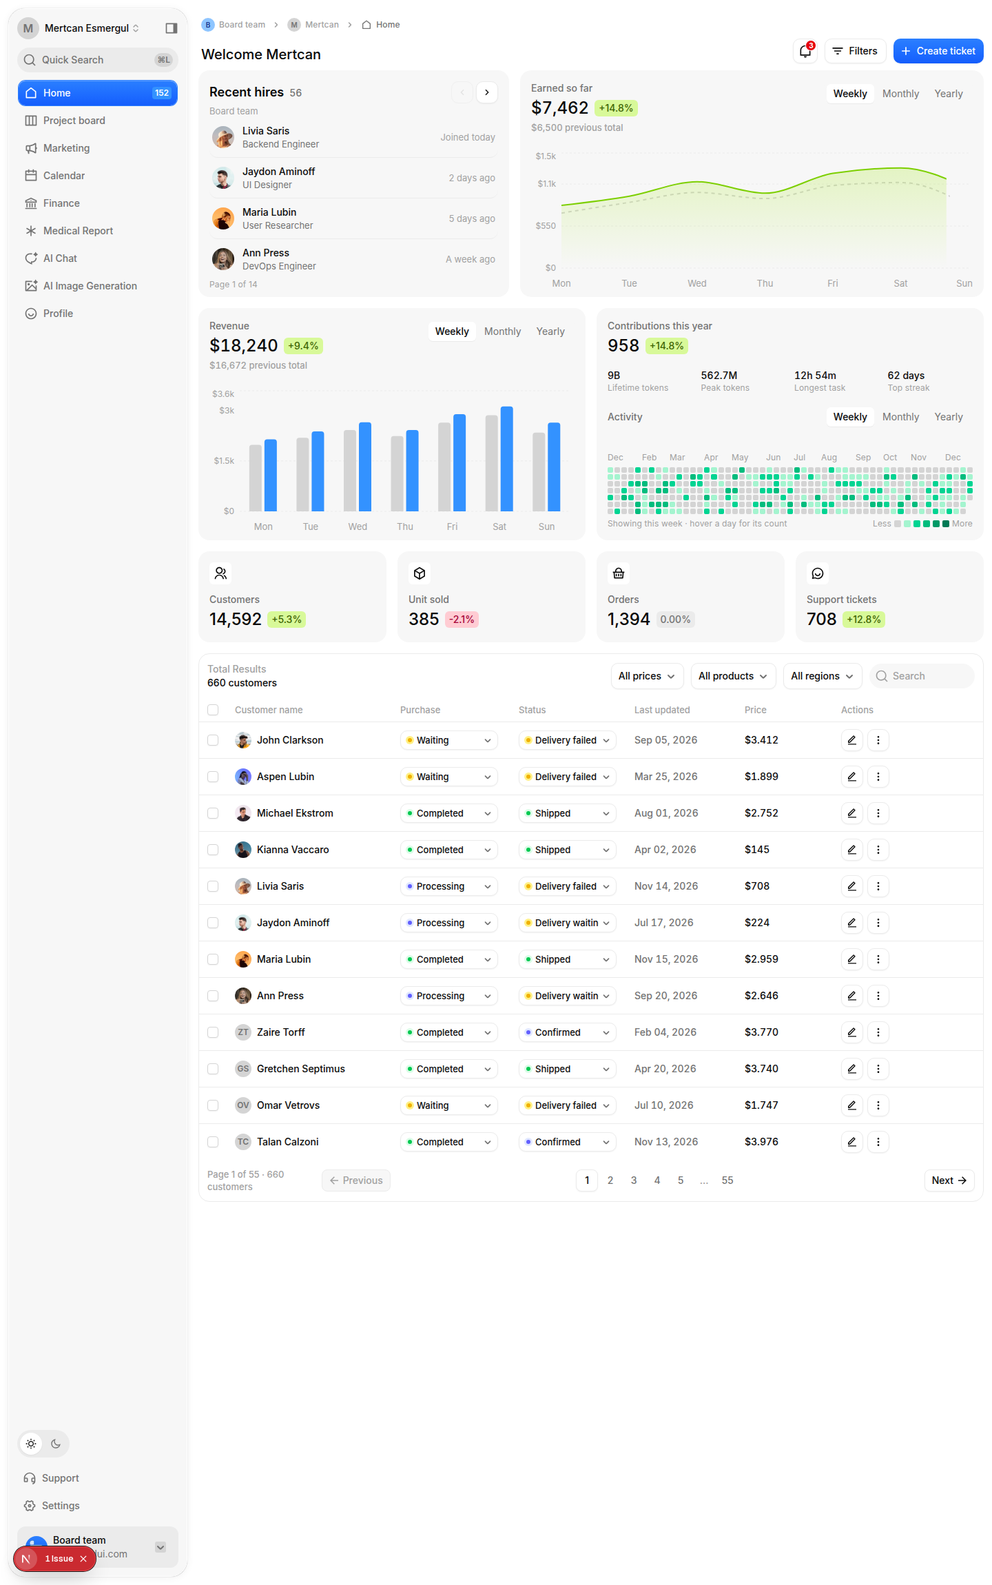
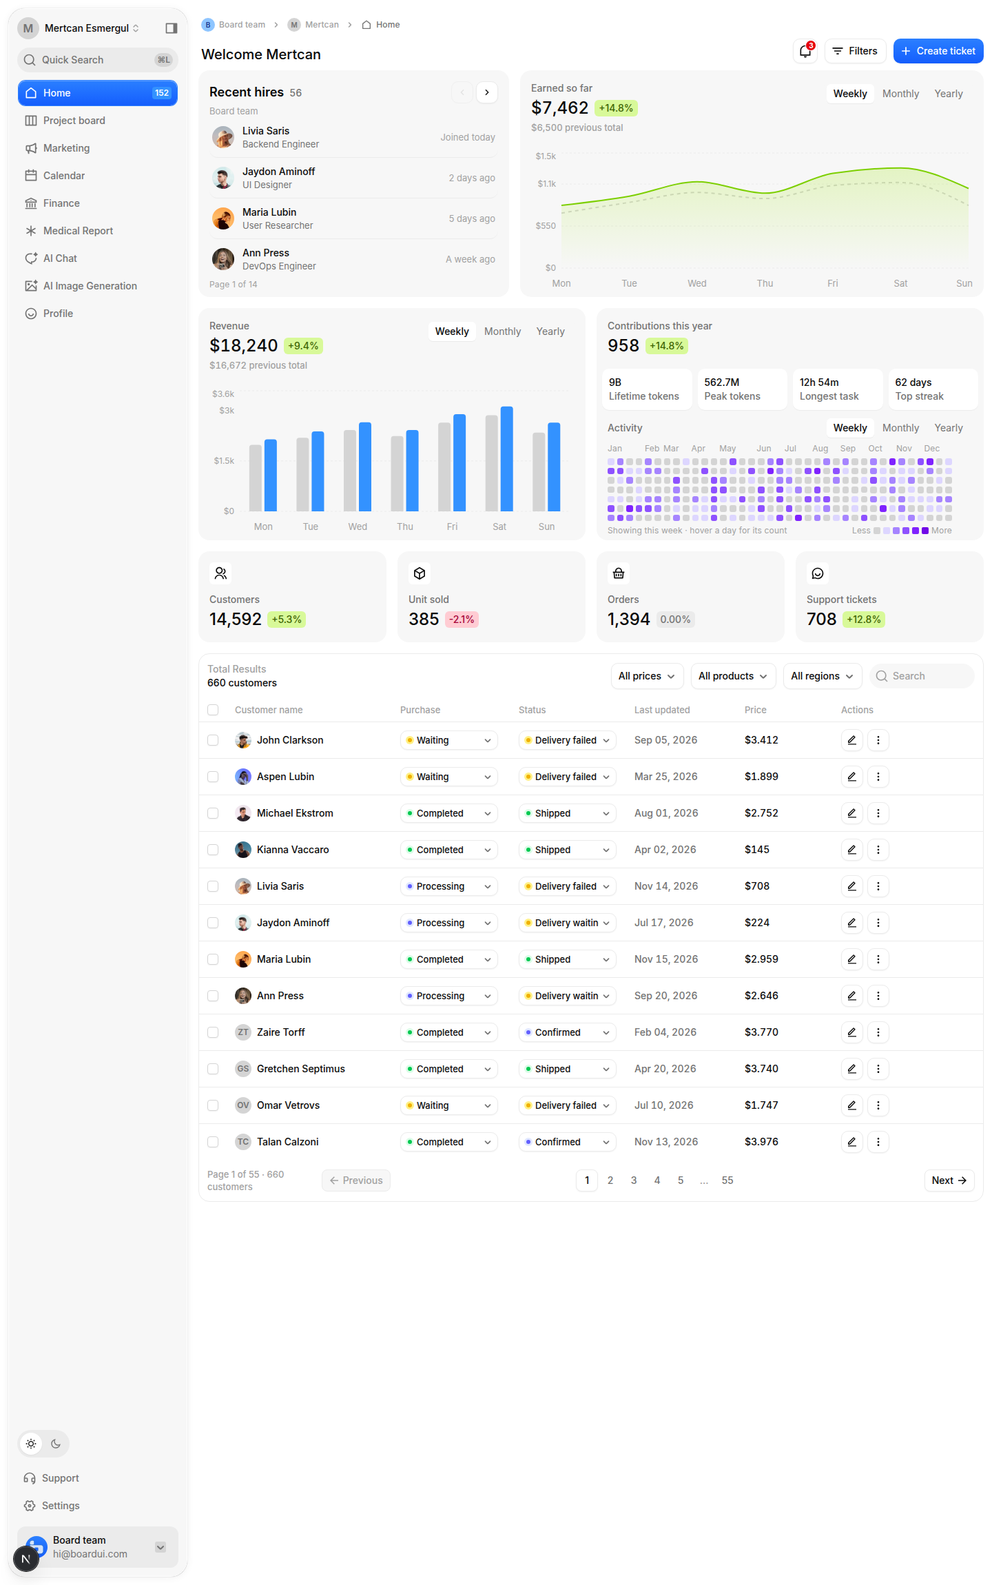
BoardUI Pro 全部内容 1:1 功能级复刻完成
- 11 条模板路由全部 1:1 重做（Dashboard、Project Board、Marketing、Calendar、Finance、Medical Profile、HR Management 新建、AI Chat、AI Image Generation、AI Profile、Multi-Agent Chat），直接替换近似版
- 30 个 Pro 组件：17 张图表卡（/pro-components/charts）+ 13 个 Agent/Composer 组件（/pro-components）
- HR Management 进共享侧栏导航与总览页；总览页补 Pro 组件入口
- 三端（1440/768/390）截图自验，横向溢出 0px
- npm run build 通过，21 路由全生成；14 条路由逐个 curl 200
- REPLICA-README.md 与 INVENTORY.md 更新

diff --git a/app/templates/page.tsx b/app/templates/page.tsx
@@ -10,6 +10,7 @@ import {
   RiKanbanView2,
   RiMegaphoneLine,
   RiAsterisk,
+  RiTeamLine,
   RiUserSmileLine,
 } from "@remixicon/react";
 import Link from "next/link";
@@ -29,6 +30,7 @@ const TEMPLATES = [
   { slug: "calendar", name: "Calendar", desc: "Month view — August 2026 grid with events pinned to dates.", icon: RiCalendarLine },
   { slug: "finance", name: "Finance", desc: "Finance dashboard — balance, income, expenses, cash flow, spending, portfolio.", icon: RiBankLine },
   { slug: "medical-profile", name: "Medical Profile", desc: "Patient info, important alerts, steps, sleep score.", icon: RiAsterisk },
+  { slug: "hr-management", name: "HR Management", desc: "Headcount KPIs, hiring pipeline, engagement radar, employees table. Built from the official description (no live demo).", icon: RiTeamLine },
   { slug: "ai-chat", name: "AI Chat", desc: "Coding agent chat — working chat with demo mode (no API key needed).", icon: RiChatAiLine },
   { slug: "ai-image-generation", name: "AI Image Generation", desc: "Gallery / Styles tabs with image generations and prompts.", icon: RiImageAiLine },
   { slug: "ai-profile", name: "AI Profile", desc: "Agent profile — lifetime tokens, activity, 32 agents.", icon: RiUserSmileLine },
@@ -45,9 +47,18 @@ export default function TemplatesIndexPage() {
       actions={null}
     >
       <p className="px-1 text-body-regular text-text-secondary">
-        10 Pro templates replicated with free BoardUI components (MIT) and mock
-        data. This is a replica for reference — it is not the official Pro
-        source. Pick one to open it.
+        11 template routes replicated with free BoardUI components (MIT) and mock
+        data — the 10 Pro templates plus the Calendar demo page. This is a replica
+        for reference — it is not the official Pro source. Pick one to open it.
+        The 30 Pro components are showcased separately at{" "}
+        <Link href="/pro-components" className="text-accent-600 underline">
+          /pro-components
+        </Link>{" "}
+        (13 agent/composer components) and{" "}
+        <Link href="/pro-components/charts" className="text-accent-600 underline">
+          /pro-components/charts
+        </Link>{" "}
+        (17 chart cards).
       </p>
       <div className="grid w-full grid-cols-1 gap-4 sm:grid-cols-2">
         {TEMPLATES.map((template) => (

diff --git a/app/templates/dashboard/page.tsx b/app/templates/dashboard/page.tsx
@@ -405,12 +405,15 @@ function PeriodChartCard({
   variant,
   periodLabel,
   className,
+  flexGrow = true,
 }: {
   label: string;
   series: Record<Period, ChartPoint[]>;
   variant: "area" | "bars";
   periodLabel: string;
   className?: string;
+  /** Revenue is flex-1 in the original; Earnings is w-full with no flex-1. */
+  flexGrow?: boolean;
 }) {
   const [period, setPeriod] = useState<Period>("weekly");
   const [activeIndex, setActiveIndex] = useState<number | null>(null);
@@ -425,7 +428,7 @@ function PeriodChartCard({
   const money = (v: number) => (v >= 1000 ? `$${(v / 1000).toFixed(v % 1000 === 0 ? 0 : 1)}k` : `$${v}`);
 
   return (
-    <section className={cx("flex h-[337px] min-w-0 flex-1 flex-col gap-6 rounded-2xl bg-background-secondary-default px-4 pt-4 pb-3", className)}>
+    <section className={cx("flex h-[337px] min-w-0 flex-col gap-6 rounded-2xl bg-background-secondary-default px-4 pt-4 pb-3", flexGrow && "flex-1", className)}>
       <div className="flex w-full flex-col gap-3 sm:flex-row sm:items-start sm:justify-between">
         <div className="flex min-w-0 flex-col gap-0.5">
           <p className="w-full text-body-medium text-text-secondary">{point ? point.label : label}</p>
@@ -1084,7 +1087,7 @@ export default function DashboardTemplatePage() {
     >
       <div className="flex w-full flex-col gap-4 xl:flex-row">
         <RecentHiresCard />
-        <PeriodChartCard label="Earned so far" series={EARNINGS} variant="area" periodLabel="Earnings period" className="h-[329px] xl:w-[673px] xl:shrink-0 xl:flex-none" />
+        <PeriodChartCard label="Earned so far" series={EARNINGS} variant="area" periodLabel="Earnings period" flexGrow={false} className="h-[329px] w-full xl:w-[673px] xl:shrink-0" />
       </div>
 
       <div className="flex w-full flex-col items-stretch gap-4 lg:flex-row lg:items-start">

diff --git a/shots/shot-final.js b/shots/shot-final.js
@@ -1,0 +1,17 @@
+const { chromium } = require("/home/hatch/workspace/muse-build/node_modules/playwright-core");
+(async () => {
+  const browser = await chromium.launch({ executablePath: "/home/hatch/.cache/ms-playwright/chromium_headless_shell-1243/chrome-headless-shell-linux64/chrome-headless-shell", args: ["--no-sandbox", "--disable-dev-shm-usage"] });
+  const ctx = await browser.newContext({ viewport: { width: 1440, height: 900 } });
+  const page = await ctx.newPage();
+  await page.goto("http://localhost:3004/templates/ai-profile", { waitUntil: "networkidle", timeout: 90000 });
+  await page.waitForTimeout(4000);
+  await page.evaluate(() => {
+    const mains = [...document.querySelectorAll("main")];
+    const scroller = mains.find((m) => m.scrollHeight > m.clientHeight) || document.scrollingElement;
+    scroller.scrollTop = scroller.scrollHeight;
+  });
+  await page.waitForTimeout(800);
+  await page.screenshot({ path: "/home/hatch/workspace/boardui-templates-replica/shots/shot-ai-profile-1440-bottom.png" });
+  console.log("saved bottom shot");
+  await browser.close();
+})().catch((e) => { console.error("FATAL", e.message); process.exit(1); });

diff --git a/app/templates/ai-profile/page.tsx b/app/templates/ai-profile/page.tsx
@@ -279,7 +279,7 @@ export default function AiProfileTemplatePage() {
             <p className="text-title-2-medium whitespace-nowrap text-text-primary tabular-nums">32 agents</p>
           </div>
         </div>
-        <div className="absolute top-4 end-4 flex h-8 w-[128px] min-w-[151px] shrink-0 items-center justify-between gap-1 rounded-2lg border border-border-button-default bg-background-primary-default px-1 py-1 shadow-xs">
+        <div className="absolute top-4 end-4 z-20 flex h-8 w-[128px] min-w-[151px] shrink-0 items-center justify-between gap-1 rounded-2lg border border-border-button-default bg-background-primary-default px-1 py-1 shadow-xs">
           <button type="button" aria-label="Previous" onClick={() => setMonthIndex((m) => (m + MONTHS.length - 1) % MONTHS.length)} className="flex size-4 shrink-0 cursor-pointer items-center justify-center rounded-[3px] text-text-secondary outline-none transition-colors duration-150 ease hover:bg-background-secondary-hover focus-visible:ring-2 focus-visible:ring-border-focus-ring">
             <RiArrowLeftSLine className="size-4 rtl:rotate-180" aria-hidden />
           </button>

diff --git a/components/application/dashboard/dashboard-sidebar.tsx b/components/application/dashboard/dashboard-sidebar.tsx
@@ -24,6 +24,7 @@ import {
   RiSearchLine,
   RiSettings4Line,
   RiSideBarFill,
+  RiTeamLine,
   RiUserSmileLine,
 } from "@remixicon/react";
 import { SettingsModal } from "@/components/application/settings/settings-modal";
@@ -161,6 +162,7 @@ export const DASHBOARD_NAV: DashboardNavItem[] = [
   { key: "calendar", label: "Calendar", icon: RiCalendarLine, href: "/templates/calendar" },
   { key: "finance", label: "Finance", icon: RiBankLine, href: "/templates/finance" },
   { key: "medical", label: "Medical Report", icon: RiAsterisk, href: "/templates/medical-profile" },
+  { key: "hr-management", label: "HR Management", icon: RiTeamLine, href: "/templates/hr-management" },
   { key: "ai-chat", label: "AI Chat", icon: RiChatAiLine, href: "/templates/ai-chat" },
   { key: "ai-image", label: "AI Image Generation", icon: RiImageAiLine, href: "/templates/ai-image-generation" },
   { key: "profile", label: "Profile", icon: RiUserSmileLine, href: "/templates/ai-profile" },

diff --git a/app/templates/ai-image-generation/page.tsx b/app/templates/ai-image-generation/page.tsx
@@ -401,7 +401,7 @@ export default function AiImageGenerationTemplatePage() {
       {/* Lightbox */}
       {lightbox && (
         <div className="fixed inset-0 z-[60] flex items-center justify-center p-4" role="dialog" aria-modal="true" aria-label={lightbox.prompt}>
-          <button type="button" aria-label="Close viewer" onClick={() => setLightbox(null)} className="absolute inset-0 cursor-pointer bg-black/70" />
+          <button type="button" aria-label="Close image viewer" onClick={() => setLightbox(null)} className="absolute inset-0 cursor-pointer bg-black/70" />
           <div className="relative flex max-h-full w-full max-w-3xl flex-col gap-3 overflow-hidden rounded-3xl bg-background-primary-default p-4 shadow-card">
             <div className="flex items-center justify-between gap-2">
               <p className="min-w-0 truncate text-title-3-semibold text-text-primary">{lightbox.prompt}</p>

diff --git a/REPLICA-README.md b/REPLICA-README.md
@@ -1,38 +1,56 @@
-# BoardUI 10 套 Pro 模板 · 复刻版（Replica）
+# BoardUI Pro 全部内容 · 复刻版（Replica）
 
-> **这不是官方原版。** BoardUI 的 10 套 Pro 模板是付费内容（Pro 一次性买断，1 年 €149 / 终身 €199 / 5 人团队 €349），源码不在免费仓库、不在公开 registry，无法免费获取。本项目是**用免费的 BoardUI 组件（MIT，已存档）+ mock 数据复刻**出来的 10 个页面，布局与官网演示尽量接近，供参考学习用。
+> **这不是官方原版。** BoardUI Pro 是付费内容（Pro 一次性买断，1 年 €149 / 终身 €199 / 5 人团队 €349），源码不在免费仓库、不在公开 registry，无法免费获取。本项目是**用免费的 BoardUI 组件（MIT，已存档）+ mock 数据复刻**出来的全部 Pro 内容，布局与官网演示尽量接近，供参考学习用。
+
+## 内容总览（2026-11-06 晚全部完成）
+
+Pro 注册表确认正好 **40 项：30 个 Pro 组件 + 10 套 Pro 模板**，本仓库全部复刻，外加 Calendar 演示页：
+
+- **11 条模板路由**：10 套 Pro 模板（Dashboard、Project Board、Marketing、Finance、HR Management、Medical Profile、AI Chat、AI Image Generation、AI Profile、Multi-Agent Chat）+ Calendar 演示页。全部按 1:1 功能级重做，直接替换掉原来的近似版。
+- **30 个 Pro 组件**：17 张图表卡（`/pro-components/charts`）+ 13 个 Agent/Composer/其他组件（`/pro-components`）。
+- **多端**：桌面 1440、平板 768、手机 390 三档，侧栏窄屏收起为汉堡抽屉，无横向溢出。
+- **交互**：全部可点击元素都能点、有状态变化（导航、切换、弹窗、表单、排序、筛选、分页、发送消息），不是静态截图。
 
 ## 跑起来
 
 ```bash
 npm install
 npm run dev      # 开发模式 http://localhost:3000
-npm run build    # 生产构建
-npm start        # 生产模式
+npm run build    # 生产构建（静态导出到 out/）
 ```
 
 技术栈：Next.js 16.3.3 + React 19.2.4 + Tailwind CSS v4 + React Aria + Recharts（与 BoardUI 免费 starter 一致）。
 
-**构建状态（2026-11-06 已验证）：`npm run build` 通过，19 个路由全部生成，10 套模板路由逐个 curl 均为 200 且含关键内容；Dashboard 与 Multi-Agent Chat 已截图验过渲染（见 `shots/`）。Multi-Agent Chat 于 2026-11-06 晚按 1:1 像素级重做（见下节）。**
+**构建状态（2026-11-06 晚已验证）：`npm run build` 通过，21 个路由全部生成；14 条模板/组件路由逐个 curl 均为 200。**
 
 > 构建注意：上游 starter 用 `next/font/google` 加载 Inter / JetBrains Mono，沙箱构建环境连不上 Google Fonts 会导致 Turbopack 报错。本复刻已把字体改为系统栈（`--font-inter` / `--font-mono-source` 定义在 `styles/theme.css`，`app/layout.tsx` 不再引 `next/font/google`）。若在能联网的环境部署，可改回 `next/font/google` 恢复 Inter。
+>
+> 另：`next.config.ts` 是 `output: "export"`（静态导出），`next start` 不能用，生产服务请用 `npx serve out` 或任意静态服务器；路由文件为 `out/<slug>.html`（无 trailingSlash）。
 
-## 10 套模板与路由
+## 模板与路由
 
-| # | 模板 | 路由 | 官方原版 | 本复刻用的免费组件 |
-|---|---|---|---|---|
-| 1 | Dashboard | `/templates/dashboard` | boardui.com/templates/dashboard | TemplateShell、StatCards（footer）、RevenueChartCard、OrdersChartCard、DataTableExample、Avatar、Button |
-| 2 | Project Board | `/templates/project-board` | boardui.com/templates/project-board | TemplateShell、Badge、Avatar、Button（Kanban 四列 + 9 张票据卡，mock 数据） |
-| 3 | Marketing | `/templates/marketing` | boardui.com/templates/marketing | TemplateShell、StatCards（plain，自定义 4 项）、RevenueChartCard（Acquisition funnel 数据）、OrdersChartCard、漏斗条 |
-| 4 | Calendar | `/templates/calendar` | boardui.com/templates/calendar | TemplateShell、Button、程序生成的 2026 年 8 月月历网格（8 月 1 日是周六，已按真实日历排布），事件 mock 数据 |
-| 5 | Finance | `/templates/finance` | boardui.com/templates/finance | TemplateShell、StatCards（plain，自定义 4 项）、RevenueChartCard（Cash flow 数据）、Badge、支出分类条、交易列表 |
-| 6 | Medical Profile | `/templates/medical-profile` | boardui.com/templates/medical-profile | TemplateShell、PatientInfoCard（免费，数据与原版一致）、ImportantAlertsCard（免费，数据与原版一致）、WeekRangePill、Recharts 步数柱状图、睡眠卡片 |
-| 7 | AI Chat | `/templates/ai-chat` | boardui.com/templates/ai-chat | 直接渲染免费的 AgentChat（全功能聊天，demo 模式无需 API key；加 `AI_API_KEY` 可接真实模型） |
-| 8 | AI Image Generation | `/templates/ai-image-generation` | boardui.com/templates/ai-image-generation | DashboardSidebar（AI 导航）、Tabs（Gallery / Styles）、next/image 网格；图片用免费 carousel 素材作占位，提示词与原版一致 |
-| 9 | AI Profile | `/templates/ai-profile` | boardui.com/templates/ai-profile | TemplateShell、Avatar、Badge（PRO）、StatCards（plain，自定义 4 项）、Tabs（Weekly / Monthly / Yearly 切换数据）、RevenueChartCard（Activity）、Agent 卡片网格 |
-| 10 | Multi-Agent Chat | `/templates/multi-agent-chat` | boardui.com/templates/multi-agent-chat | **1:1 像素级复刻（2026-11-06 晚重做，见下节）**：三栏聊天（260px 侧栏 + 弹性主区 + 360px 编辑器）、7 组对话原文逐字照抄、群聊空态、环形头像选择器、Voice 栏；头像为手绘 SVG 卡通脸（原版为 canvas 动画） |
+| # | 模板 | 路由 | 完成度 |
+|---|---|---|---|
+| 1 | Dashboard | `/templates/dashboard` | 1:1 重做（1118 行）："Welcome Mertcan"、KPI 卡、Recent hires（56 人 14 页）、Earnings/Revenue 图表（Weekly/Monthly/Yearly）、Contributions 热力图（37×7、958）、客户表（660 人 55 页，筛选/排序/行内编辑/工单弹窗） |
+| 2 | Project Board | `/templates/project-board` | 1:1 重做（755 行）：5 列（Backlog/To do/In progress/Review/Done）、13 张票据逐字照录、详情侧面板（可编辑属性/评论/token 图）、New ticket 真新建、拖拽换列、排序 |
+| 3 | Marketing | `/templates/marketing` | 1:1 重做（875 行）：4 张 KPI 卡、获客漏斗、Spend by channel、Sessions 三 tab、ROAS 组合图、Visitors 面积图、Campaigns 表 80 条（前 10 行逐字）、Filter/New campaign/排序 |
+| 4 | Calendar | `/templates/calendar` | 1:1 重做（564 行）：2026 年 8 月真实日历、23 个事件 chips、月份切换、Inbox、事件详情弹窗、New event 弹窗 |
+| 5 | Finance | `/templates/finance` | 1:1 重做（1017 行）：KPI、Cash flow Sankey（分项求和精确）、Spending 圆环、Portfolio 气泡、Daily spending 热力图（84 格取自原版 aria-label）、交易表 140 条 14 页、Add 弹窗 |
+| 6 | Medical Profile | `/templates/medical-profile` | 1:1 重做（929 行）：患者卡、步数 31,600、睡眠 98、Most active days 32,459（365 天迷你三环逐天提取）、患者表 540 人 45 页 |
+| 7 | HR Management | `/templates/hr-management` | 新建（792 行）：headcount KPI、最近入职、招聘漏斗、敬业度雷达、入职 vs 离职、团队 breakdown、员工表。**原版无演示页（404），按官方描述搭建，页顶已注明** |
+| 8 | AI Chat | `/templates/ai-chat` | 1:1 重做（696 行）：Agentic chat、11 条原版线程、Fable 5 模型、Code/Changes/Browser 三栏、Composer、发送→Thinking→canned 回复、线程切换/新建/重命名/删除 |
+| 9 | AI Image Generation | `/templates/ai-image-generation` | 1:1 重做（553 行）：20 条原版提示词全录、7 张图（免费素材占位）、Gallery/Styles、Like/Dislike、Regenerate、灯箱 |
+| 10 | AI Profile | `/templates/ai-profile` | 1:1 重做（375 行）：Mertcan Esmergül、266 格热力图逐格照录（1,761 contributions）、30 根柱高逐值照录、Tokens 667.7M、Weekly/Monthly/Yearly 切换 |
+| 11 | Multi-Agent Chat | `/templates/multi-agent-chat` | **1:1 像素级复刻（955 行，见下节）**：三栏聊天、7 组对话原文逐字、群聊空态、环形头像选择器、Voice 栏 |
 
-另有总览页 `/templates`，列出 10 套模板的入口。
+另有总览页 `/templates`（11 套入口 + Pro 组件入口）。
+
+共享外壳：9 套仪表盘模板 + HR Management 共用侧栏导航（Home、Project board、Marketing、Calendar、Finance、Medical Report、HR Management、AI Chat、AI Image Generation、Profile、Support、Settings），点侧栏切模板路由；窄屏收起为汉堡抽屉。
+
+## Pro 组件（30 个）
+
+- **17 张图表卡**（`/pro-components/charts`）：Earnings、Line、Contributions、Radar、Radial、Funnel、Sankey、Stage Bars、Bar List、Area、Combo、Scatter、Heatmap、Steps、Sleep Score、Activity Rings、Most Active Days。周期切换、hover 联动、变体切换均可用；图表用 Recharts，Funnel 横向梯形与部分网格/圆环为手写 SVG/DOM（已注明）。
+- **13 个非图表组件**（`/pro-components`）：Web Search、Task List、Composer、Composer Panel、Composer Attachments、Agent Progress、Agent Limits Card、Questionnaire、Calendar、Agent Avatar、Agent Creator（11 个实机演示）+ Project Board 与 Multi-agent Chat（链接卡片，链到已 1:1 的模板页）。
 
 ## Multi-Agent Chat · 1:1 复刻说明（2026-11-06 晚）
 
@@ -53,23 +71,28 @@ npm start        # 生产模式
 ## 与官网原版的差异（诚实说明）
 
 - **不是官方源码。** 布局、文案、数据是按官网公开演示页复刻的，组件是免费版，代码结构与官方 Pro 模板不同。
-- **图片是占位。** AI Image Generation 的 7 张图用的是免费仓库里的 carousel 素材（floral、kitchen、seafood 等），不是官方生成的原图；提示词与原版一致。
-- **数据是 mock。** 所有数字（营收、订单、步数、代币等）都是按官网演示页的公开数字写的占位数据，不接真实后端。
-- **AI Chat 侧边栏不同。** 官方模板的侧边栏是 agent 工作区（New agent / Automations / Customize / Repositories + 对话列表），本复刻直接用了免费的 AgentChat，它的侧边栏是 starter 导航（Chat / Dashboard / Components / Sign in / Sign up）。聊天界面、composer、思考指示器、历史栏是同一个产品。
-- **Multi-Agent Chat 已 1:1 重做。** 见上节；聊天仍是本地 demo（发送后 canned 回复，不接模型）。
-- **Medical Profile 的两个卡片是免费原装。** PatientInfoCard 与 ImportantAlertsCard 是免费仓库里的组件，数据与官网原版一致（同一份 mock 数据）。
-- **没有 Pro 专属组件。** 10 套模板里 Pro 才有的 30 个组件一律没用，只用了免费的 69 项。
+- **图片是占位。** AI Image Generation 的 7 张图用的是免费仓库里的 carousel 素材，不是官方生成的原图；提示词与原版一致（20 条全录）。AI Profile 封面是 CSS 渐变（原版封面图属 Pro，不能用）。
+- **数据是 mock。** 所有数字（营收、订单、步数、代币等）都是按官网演示页的公开数字写的占位数据，不接真实后端；部分图表月度序列是按官方总值反推的重建值（求和对得上，明细未逐项转录），已在各页注释中标明。
+- **HR Management 无原版演示对照。** 官方 /templates/hr-management 是 404，该页按 llms.txt 的官方描述搭建，页顶已注明。
+- **头像是手绘 SVG。** 原版 canvas 动画头像属 Pro，拿不到；本复刻用 SVG 卡通脸 + CSS 眨眼代替。
+- **聊天是本地 demo。** AI Chat 与 Multi-Agent Chat 发送后均为 canned 回复，不接模型；官方模板接真实 agent。
+- **负责人头像是首字母彩色头像。** 原版用 randomuser.me 真人照片，沙箱 egress 代理连不上该站，已改成 BoardUI 首字母彩色头像。
+- **未做暗色模式专项验收。** 亮色为默认与验收口径。
 
 ## 免费组件来源
 
 - 本项目基于 BoardUI 免费仓库（BoardUI/boardui，MIT，2026-10-03 提交 ec5c5eb）搭建，组件在 `components/` 下，遵循 `AGENTS.md` 里的 BoardUI 设计规则（语义 token、复合排版工具类、`@/` 别名、Remixicon 图标）。
-- 模板页的公开结构取自 boardui.com/templates/<slug> 的公开演示页（`tpl-pages/` 下是抓到的页面快照，仅作参考，不随应用发布）。
+- 模板页的公开结构取自 boardui.com/templates/<slug> 的公开演示页（`tpl-pages/` 下是抓到的页面快照，仅作参考，不随应用发布）；Pro 清单取自 boardui.com/llms.txt 与 /r/registry-pro.json（40 项），见 `INVENTORY.md`。
 
 ## 目录
 
-- `app/templates/` — 10 套模板路由 + 总览页
+- `app/templates/` — 11 条模板路由 + 总览页
+- `app/pro-components/` — 30 个 Pro 组件展示页（`/pro-components` 13 个非图表 + `/pro-components/charts` 17 张图表卡）
+- `components/application/charts/` — 17 张图表卡组件；`components/application/pro/` — 13 个非图表 Pro 组件
+- `components/application/template-shell/` — 模板外壳（Pro 导航 + 面包屑 + 标题 + 操作区）
 - `app/dashboard/`、`app/page.tsx`（Chat）、`app/components/`、`app/login/`、`app/signup/` — 免费 starter 自带的页面
 - `components/` — BoardUI 免费组件（base / application / foundations）
-- `components/application/template-shell/` — 本复刻新增的模板外壳（Pro 导航 + 面包屑 + 标题 + 操作区）
+- `INVENTORY.md` — Pro 全部 40 项盘点清单
 - `tpl-pages/` — 官网 10 个模板页的 HTML 快照（参考用）
+- `shots/` — 各模板三档截图（1440/768/390）与交互证据
 - `styles/`、`utils/`、`hooks/`、`public/` — 免费 starter 自带
